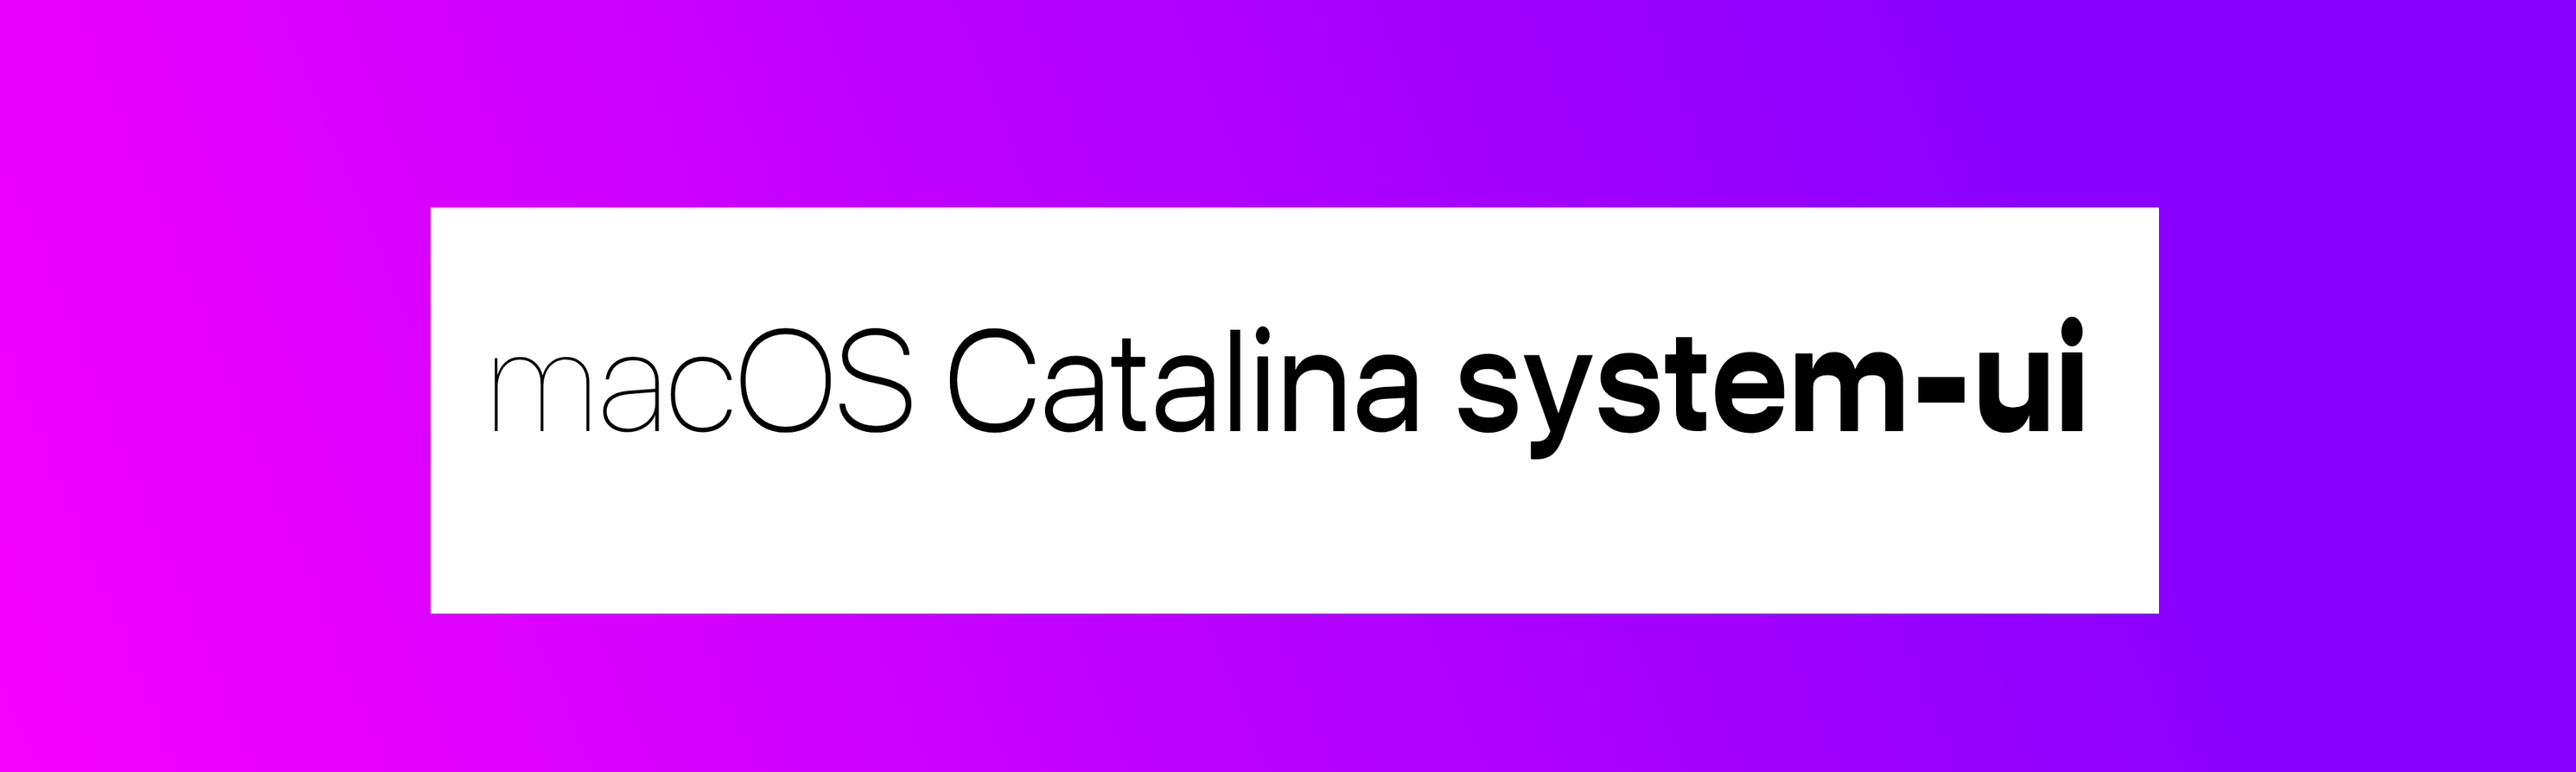
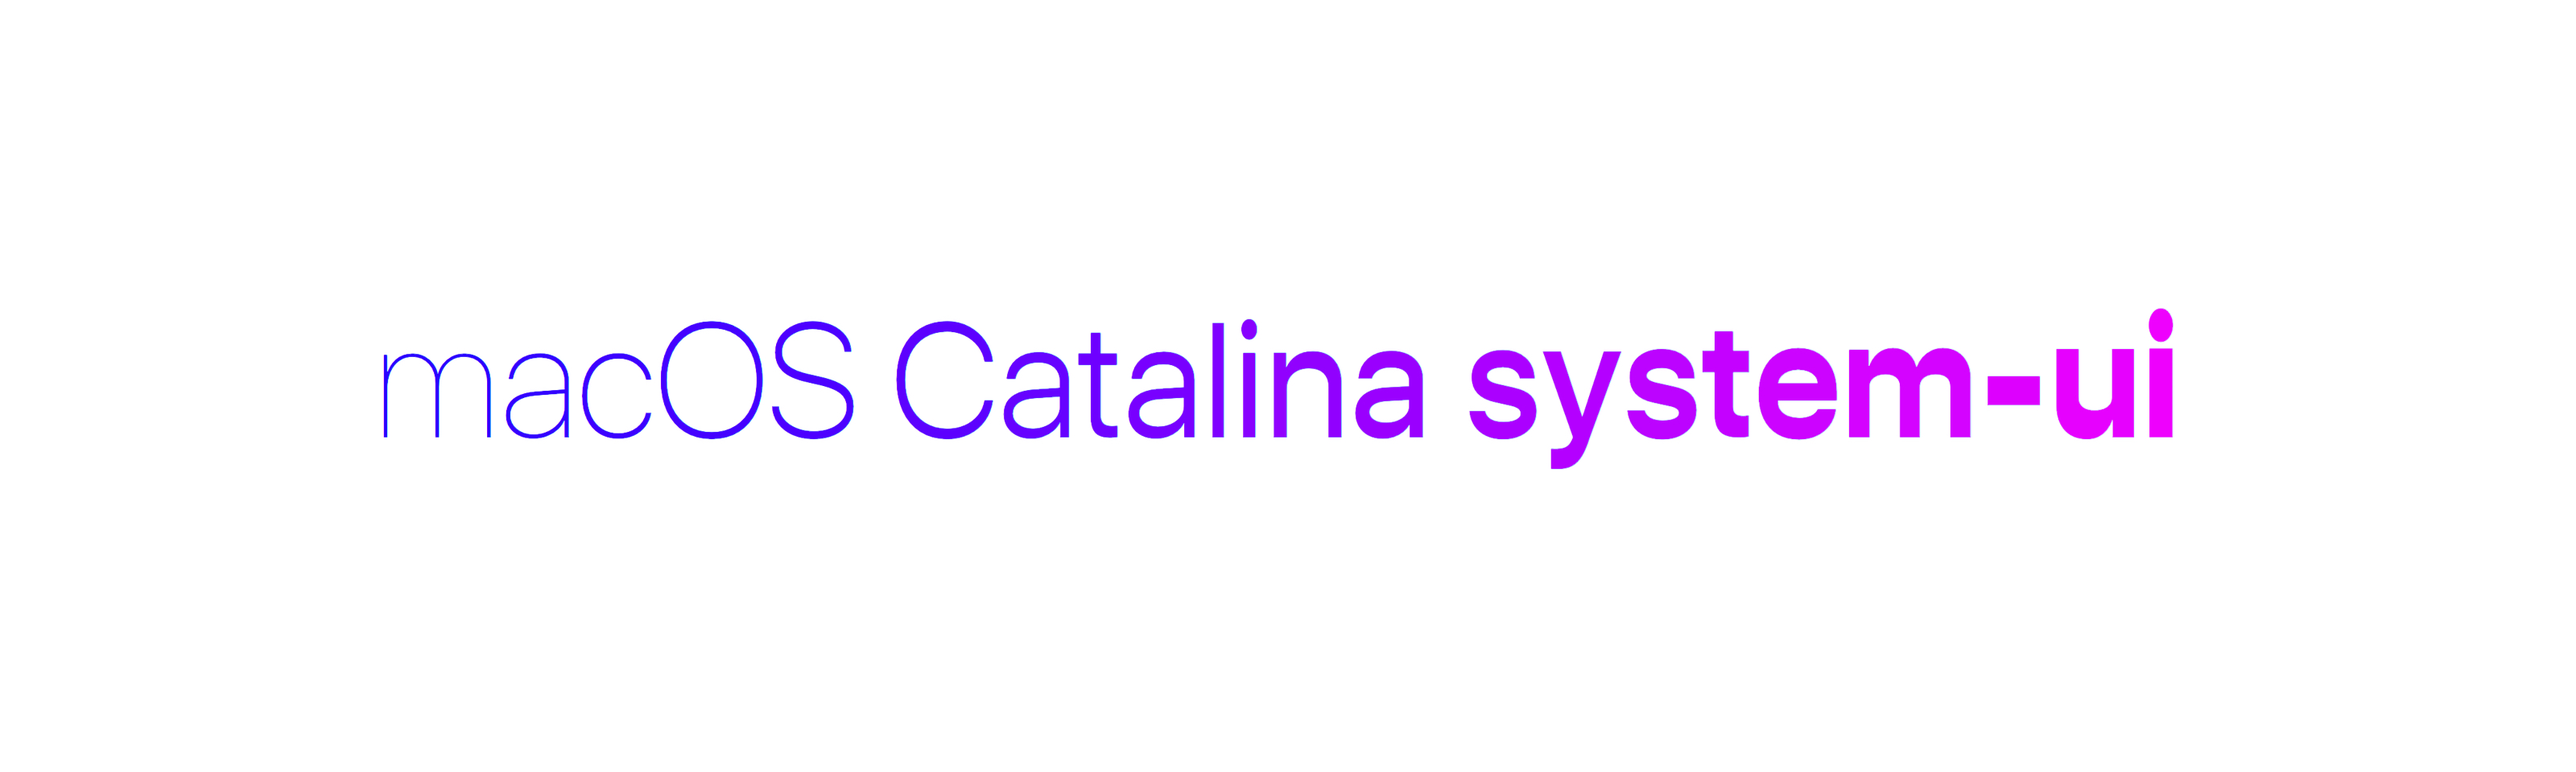
wrapped up porting images and content over

diff --git a/src/site/content/en/blog/catalina-system-ui/index.md b/src/site/content/en/blog/catalina-system-ui/index.md
@@ -7,11 +7,11 @@ authors:
 description: Chromium 80 had a system-ui font weight regression on macOS. The reason it broke, and the new super powers post-resolution, are worth the wait in Chromium 83.
 date: 2020-05-21
 updated: 2020-05-21
-hero: hero-temp.png
+hero: hero.jpg
 alt: A bright pink and purple gradient with "macOS Catalina system-ui" going from thin to think from left to right, demonstrating some of the new variation settings
 ---
 
-The ['system-ui' section](https://drafts.csswg.org/css-fonts-4/#system-ui-def) of the CSS Fonts Module Level 4 spec defines a `system-ui` font keyword that allows developers to use the built-in, turbo-optimized, mega-high-quality, no-download-needed, default operating system font font right in their sites and apps. 
+The ['system-ui' section](https://drafts.csswg.org/css-fonts-4/#system-ui-def) of the CSS Fonts Module Level 4 spec defines a `system-ui` font keyword that allows developers to use the built-in, turbo-optimized, localized, mega-high-quality, no-download-needed, default operating system font font right in their sites and apps. 
 
 ```css
 body {
@@ -71,16 +71,23 @@ h1 {
 
 {% endCompare %}
 
-On Mojave, `system-ui` is a variable font with only `wght` settings. While `system-ui` on Catalina is a variable font with `wght`, `opsz`, `GRAD`, and `YAXS` settings.
-
-Looks like some neat progressive enhancement design opportunities to me! Really dig into the subtleties of the system font if you want. 
-
 {% Aside 'gotchas' %}
 These variant features are only available for macOS Catalina users.
 {% endAside %}
 
+On Mojave, `system-ui` is a variable font with only `wght` settings. While `system-ui` on Catalina is a variable font with `wght`, `opsz`, `GRAD`, and `YAXS` settings.
+
+Looks like some neat progressive enhancement design opportunities to me! Really dig into the subtleties of the system font if you want. 
+
+
+
 #### `wght`  {: #wght }
 Accepts a font weight between `0` and `900` and is applied equally to all characters.
+
+```css
+/* 0-900 */
+font-variation-settings: 'wght' 750;
+```
 
 <figure class="w-figure w-figure--fullbleed">
   <video controls autoplay loop muted class="w-screenshot">
@@ -89,72 +96,142 @@ Accepts a font weight between `0` and `900` and is applied equally to all charac
   </video>
 </figure>
 
-```css
-/* Supports 0-900 */
-font-variation-settings: 'wght' 750;
-```
-
 #### `opsz` {: #opsz }
 Optical sizing is similar to kerning or letter-spacing, but the spacing is done by a human eye instead of math. A value of `19` or below is intended for text and body copy spacing, while `20` or above is for spacing display headers and titles.
+
+```css
+/* 19 or 20 */
+font-variation-settings: 'opsz' 20;
+```
 
 <figure class="w-figure w-figure--fullbleed">
   <video controls autoplay loop muted class="w-screenshot">
     <!-- <source src="https://storage.googleapis.com/web-dev-assets/hands-on-portals/portals_vp9.webm" type="video/webm; codecs=vp8"> -->
-    <source src="https://storage.googleapis.com/web-dev-assets/macos-system-ui/system-ui_opsz.mp4">
+    <source src="https://storage.googleapis.com/web-dev-assets/macos-system-ui/system-ui_opsz_v2.mp4">
   </video>
 </figure>
 
 #### `GRAD`
 Similar to weight, but without touching horizontal spacing. It accepts values between `400` and `1000`.
 
-<!-- <figure class="w-figure w-figure--fullbleed">
-  <video controls autoplay loop muted class="w-screenshot">
-    <source src="https://storage.googleapis.com/web-dev-assets/macos-system-ui/system-ui_opsz.mp4">
-  </video>
-</figure> -->
-
 ```css
+/* 400-1000 */
 font-variation-settings: 'GRAD' 500;
 ```
+
+<figure class="w-figure w-figure--fullbleed">
+  <video controls autoplay loop muted class="w-screenshot">
+    <source src="https://storage.googleapis.com/web-dev-assets/macos-system-ui/system-ui_grad_v2.mp4">
+  </video>
+</figure>
 
 #### `YAXS`
 Stretches the glyph vertically. It accepts values between `400` and `1000`.
 
-<!-- <figure class="w-figure w-figure--fullbleed">
-  <video controls autoplay loop muted class="w-screenshot">
-    <source src="https://storage.googleapis.com/web-dev-assets/macos-system-ui/system-ui_opsz.mp4">
-  </video>
-</figure> -->
-
 ```css
+/* 400-1000 */
 font-variation-settings: 'YAXS' 500;
 ```
 
-### Combining the options
-With a few lines of CSS, we can tweak the font settings into a bold of our choice or try out other interesting combinations:
-
 <figure class="w-figure w-figure--fullbleed">
   <video controls autoplay loop muted class="w-screenshot">
-    <!-- <source src="https://storage.googleapis.com/web-dev-assets/hands-on-portals/portals_vp9.webm" type="video/webm; codecs=vp8"> -->
-    <source src="https://storage.googleapis.com/web-dev-assets/macos-system-ui/system-ui_all-settings.mp4">
+    <source src="https://storage.googleapis.com/web-dev-assets/macos-system-ui/system-ui_yaxs_v2.mp4">
   </video>
 </figure>
+
+#### Combining the options
+With a few lines of CSS, we can tweak the font settings into a bold of our choice or try out other interesting combinations:
 
 ```css
 font-weight: 700;
 font-weight: bold;
-font-variation-settings: 'wght' 750, 'YAXS' 600;
+font-variation-settings: 'wght' 750, 'YAXS' 600, 'GRAD' 500, 'opsz' 20;
 ```
 
-And just like that, Chromium users on macOS see your upgraded, custom 750 weight with added thickness to the y-axis.
+<figure class="w-figure w-figure--fullbleed">
+  <video controls autoplay loop muted class="w-screenshot">
+    <!-- <source src="https://storage.googleapis.com/web-dev-assets/hands-on-portals/portals_vp9.webm" type="video/webm; codecs=vp8"> -->
+    <source src="https://storage.googleapis.com/web-dev-assets/macos-system-ui/system-ui_combined_v2.mp4">
+  </video>
+</figure>
+
+And just like that, Chromium users on macOS see your upgraded, custom 750 weight with some fun other tweaks 👍 
+
+### Sandbox
 
 <div class="glitch-embed-wrap" style="height: 480px; width: 100%;">
   <iframe
-    src="TODO&attributionHidden=true"
-    alt="tabindex-zero on Glitch"
+    src="https://glitch.com/embed/#!/embed/macos-system-ui?path=style.css&attributionHidden=true"
+    alt="macOS Catalina system-ui sandbox on Glitch"
     style="height: 100%; width: 100%; border: 0;">
   </iframe>
 </div>
 
 macOS 10.15 added new features to its system font, and in macOS 10.15 a tricky `system-ui` bug was logged in the Chromium bug tracker. I wonder if they are related!?
 
+## Appendix: The 'system-ui' regression {: #regression }
+
+{% Aside %}
+The rest of this blog post explains how `system-ui` broke in Chromium 80 and how the Chromium engineers fixed it. If this isn't interesting or relevant for you, you can stop reading now.
+{% endAside %}
+
+This story starts with a different bug: [#1005969](https://crbug.com/1005969). This was reported against macOS 10.15 because the system-ui font spacing looked narrow and crammed.
+
+<figure class="w-figure">
+  <img src="./tight-chrome-spacing.png" alt="A comparison of two paragraphs from a Facebook group page. On the left is Chrome and the right is Safari, and Chrome is subtle but slightly tighter in spacing">
+  <figcaption class="w-figcaption">Chrome on left (tighter kerning), Safari on right (better optical spacing)</figcaption>
+</figure>
+
+### Background
+
+Did you ever notice on macOS 10.14 how your paragraphs or headers "snapped" to a different looking font when the size went up or down?
+
+<figure class="w-figure w-figure--fullbleed">
+  <video controls autoplay loop muted class="w-screenshot">
+    <!-- <source src="https://storage.googleapis.com/web-dev-assets/hands-on-portals/portals_vp9.webm" type="video/webm; codecs=vp8"> -->
+    <source src="https://storage.googleapis.com/web-dev-assets/macos-system-ui/system-ui_20to19.mp4">
+  </video>
+</figure>
+
+On macOS 10.14, the `system-ui` font switched between two fonts depending on the target font size. When text was under `20px`, macOS used "San Francisco Text". When text was `20px` or over, macOS used "San Francisco Display". Optical sizing was built statically into two separate fonts.
+
+Catalina (macOS 10.15) shipped a new united variable font for San Francisco. No more managing "Text" and "Display". It also gained the new variation setting [`opsz`](#opsz) described earlier.
+
+```css
+h1 {
+  font-variation-settings: 'opsz' 20;
+}
+```
+
+Unfortunately, the default `opsz` value in the new Catalina font is `20`, and Chromium engineers were not prepared to apply `opsz` to the system font. This led to smaller sizes displaying too narrow. 
+
+To fix that, Chromium needed to apply `opsz` correctly to the system font. This lead to [Issue #1005969](https://crbug.com/1005969) getting fixed. Victory!…?
+
+### Not done yet
+
+This is where it got tricky: Chromium applied `opsz` but something did not look right still. System fonts on Mac have an additional font table called [`trak`](https://developer.apple.com/fonts/TrueType-Reference-Manual/RM06/Chap6trak.html), which tweaks horizontal spacing. While working on the fix, we noticed that on macOS, when retrieving horizontal metrics from a `CTFontRef CoreText` object, the `trak` metrics were already getting factored into the metrics results. Chromium's shaping library [HarfBuzz](https://github.com/harfbuzz/harfbuzz) needs metrics where the `trak` values are not yet factored in.
+
+<figure class="w-figure">
+  <img src="./weight-loss.png" alt="A master display of system-ui and all of it's font weight and variations in a list. Half of them have no weight differences applied.">
+</figure>
+
+Internally, [Skia](https://skia.org/) uses both the `CGFontRef` class from [CoreGraphics](https://developer.apple.com/documentation/coregraphics) and the `CTFontRef` class from [CoreText](https://developer.apple.com/documentation/coretext). Due to required internal conversions between those objects (used for keeping backwards compatibility and accessing needed APIs on both classes), Skia would lose weight information in certain circumstances and bold fonts would stop working. This was tracked in [Issue #1057654](https://crbug.com/1057654). 
+
+Skia still needs to support macOS 10.11 because Chromium still supports it. On 10.11 the San Francisco Text and San Francisco Display fonts weren’t even variable fonts, but each was a family of separate fonts for every weight available. At some point their glyph IDs became out of sync with each other. So if Skia did text shaping (converting text into glyphs that can be drawn) with San Francisco Text, it would be gibberish if drawn with San Francisco Display, and vice versa. And even if Skia just asked for a different size macOS might switch to the other. It should be possible to always use one of the fonts and just scale it (using a matrix to scale it up instead of asking for a larger size) but CoreText has an issue where it will not scale sbix (color emoji) glyphs up (only down). It’s a bit more complex than that. CoreText actually seems to cap the vertical extent after matrix application, which seems to be related to it not being able to draw emoji at 45 degree angles. In any event, if you want your emoji to be shown big, you need to make a copy of the font to get a big version.
+
+So in order to create copies of `CTFont` objects at different sizes internally while ensuring that the same underlying font data is used, Chromium pulled the `CGFont` off the `CTFont`, then made a new `CTFont` from the `CGFont` (`CGFont` objects are size independent, the magic switching happens at the CoreText level). This worked fine until 10.154. In 10.15 this round trip ended up losing too much information, resulting in the weight issue. [Flutter noticed the weight issue](https://github.com/flutter/flutter/issues/49492) and an alternate fix for resizing was made to create the new `CTFont` directly from the original `CTFont` while controlling the optical size directly using an old but undocumented attribute in `CoreText`. This keeps things working on 10.11 and fixes other issues (like explicitly setting the optical size to the default value).
+
+However, this preserves more of the CoreText 'magic' in the font. One of these seems to be that it still tweaks the glyph advances in some way other than just the ‘trak’ table (the application of which Chromium was already trying to suppress through yet another undocumented attribute).
+
+`CGFont` doesn’t do any of this 'magic' so maybe Chromium could get the `CGFont` off the `CTFont` and just use it to get advances? Unfortunately this wouldn't work because CoreText is known to muck with fonts in other ways as well. For example, it makes small emoji slightly bigger than you actually requested (boosting their size a bit). `CGFont` doesn’t know about this, so you’d end up with your sbix-based emoji too close to each other since you’d be measuring at one size but `CoreText` would draw them bigger by some amount. Chromium does want the `CTFont` advances, but it wants them without tracking, and preferably without any other mucking about.
+
+Since the fix for the spacing issue required a set of interconnected Blink and Skia fixes, the Chromium engineers could not "just revert" to fix the problem. The Chromium engineers also tried using a different build flag for changing a font-related codepath in Skia, which fixed the bold fonts problem, but regressed the spacing problem.
+
+## The Fix
+In the end, of course Chromium wanted to fix both things. Chromium now resorts to using a different implementation for retrieving horizontal metrics directly from the binary data in the system font's font tables. Using this, Chromium is sidestepping `CoreText` and Skia when the font has a `trak` table (except when it’s the emoji font). 
+
+<figure class="w-figure">
+  <img src="./weight-back.png" alt="A master display of system-ui and all of it's font weight and variations in a list. The half previously not working looks great now.">
+</figure>
+
+In the meantime there's still [Skia Issue #10123](https://bugs.chromium.org/p/skia/issues/detail?id=10123) to track fixing this fully in Skia, and to go back to using Skia to retrieve the system font metrics from there, instead of the current fix that goes through HarfBuzz.
